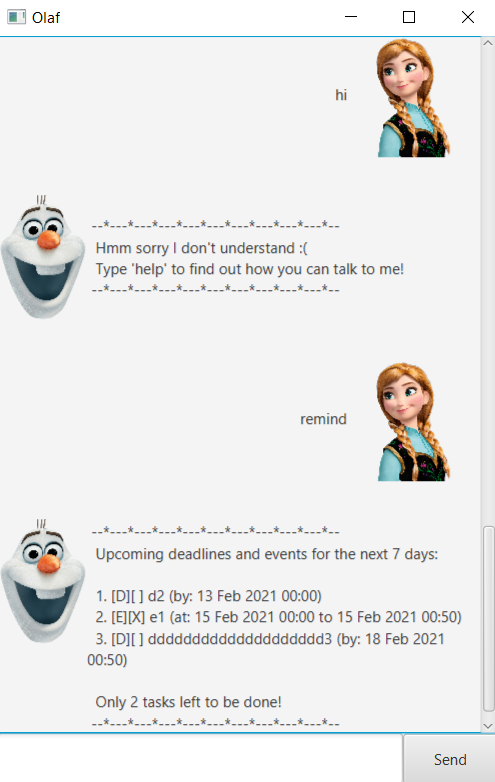
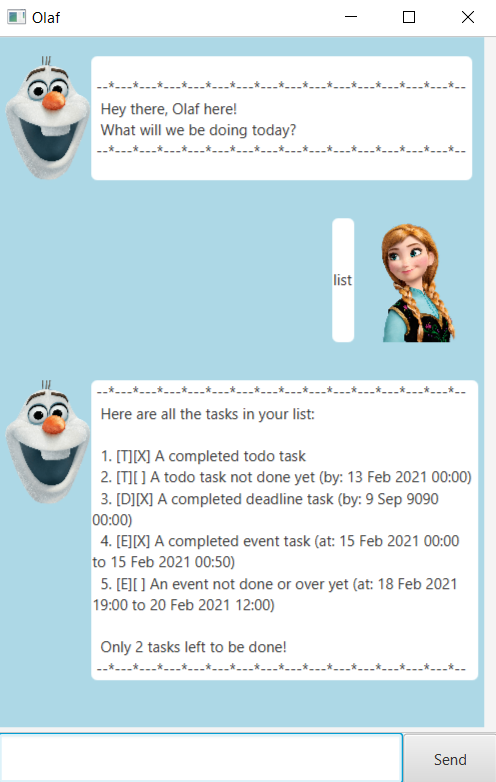
Final features for submission

diff --git a/src/main/java/project/command/AddEvent.java b/src/main/java/project/command/AddEvent.java
@@ -31,7 +31,11 @@ public class AddEvent extends AddTask {
         LocalDateTime startDateTime = Parser.parseOutputDateTime(start);
         LocalDateTime endDateTime = Parser.parseOutputDateTime(end);
 
-        return new Event(description, startDateTime, endDateTime);
+        Event e = new Event(description, startDateTime, endDateTime);
+        if (endDateTime.isBefore(LocalDateTime.now())) {
+            e.markAsDone();
+        }
+        return e;
     }
 
     @Override

diff --git a/src/main/java/project/common/PrintedText.java b/src/main/java/project/common/PrintedText.java
@@ -18,7 +18,7 @@ public enum PrintedText {
     BORDER {
         @Override
         public String toString() {
-            return " --*---*---*---*---*---*---*---*---*---*--\n";
+            return " --*---*---*---*---*---*---*---*---*---*---*---*---*---*---*-- \n";
         }
     },
 

diff --git a/docs/README.md b/docs/README.md
@@ -7,7 +7,7 @@
 
 3. Copy the file to the folder you want to use as the _home folder_ for your Olaf app.
 
-4. Double-click the file to start the app. The GUI similar to the below should appear in a few seconds. Notice your app will be blank unlike the example below.<br>
+4. Double-click the file to start the app. The GUI with a greeting from Olaf, similar to the below should appear in a few seconds. Notice your app will not have any data in the task list unlike the example below.<br>
    ![Ui](Ui.png)
 
 5. Type the command in the command box below and press Enter to execute it. e.g. typing **`help`** and pressing Enter will give a response listing all the  possible commands you can use.<br>
@@ -39,7 +39,7 @@
 * Items in square brackets are optional.<br>
   e.g `find <SEARCH TERM> [, <MORE SEARCH TERMS>]` can be used as `find project, presentation` or as `find project`.
 
-* Extraneous parameters for commands that do not take in parameters (such as `help`, `list`, `exit` and `clear`) will NOT be ignored.<br>
+* Extraneous parameters for commands that do not take in parameters (such as `help`, `list`, `remind` and `bye`) will NOT be ignored.<br>
   e.g. if the command specifies `help 123`, it will not be interpreted as `help`.
 
 </div>
@@ -98,9 +98,9 @@ Adds a deadline Task to the application.
 
 Format: `deadline <TASK DESCRIPTION> /by <YYYY-MM-DD HH:mm>`
 
-* The deadline date and time has to be after current time
 * Description cannot be empty  
 * Time is given in 24 hour format
+* The deadline date and time has to be after current time
 
 Examples:
 * `deadline birthday /by <2021-06-21 00:00>`
@@ -112,9 +112,10 @@ Adds an event Task to the application.
 
 Format: `event <TASK DESCRIPTION> /at <YYYY-MM-DD HH:mm> to <YYYY-MM-DD HH:mm>`
 
-* The start date and time has to be before end date and time
 * Description cannot be empty
 * Time is given in 24 hour format
+* The start date and time has to be before end date and time
+* When loading existing event task from storage, it will be marked as done if the event is already over.
 
 Examples:
 * `event new year's eve /at <2021-12-31 00:00> to <2022-01-01 00:00>`
